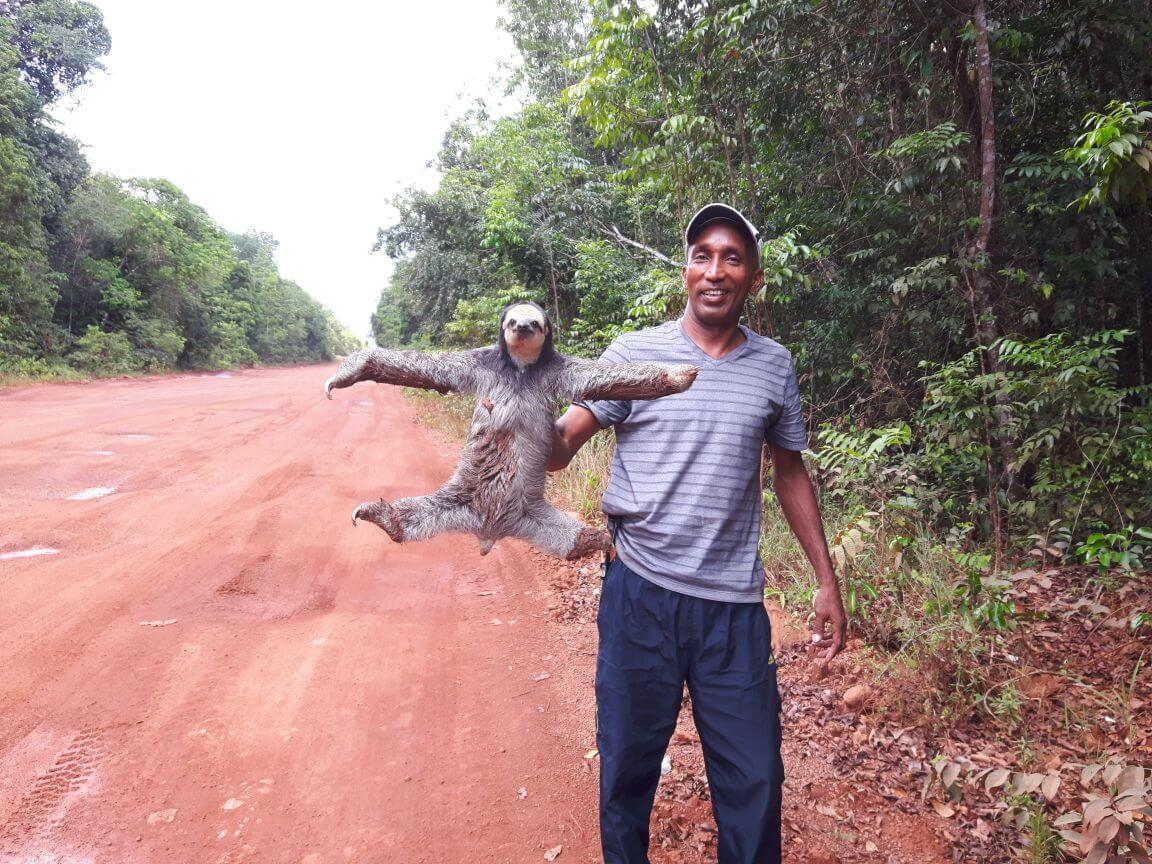
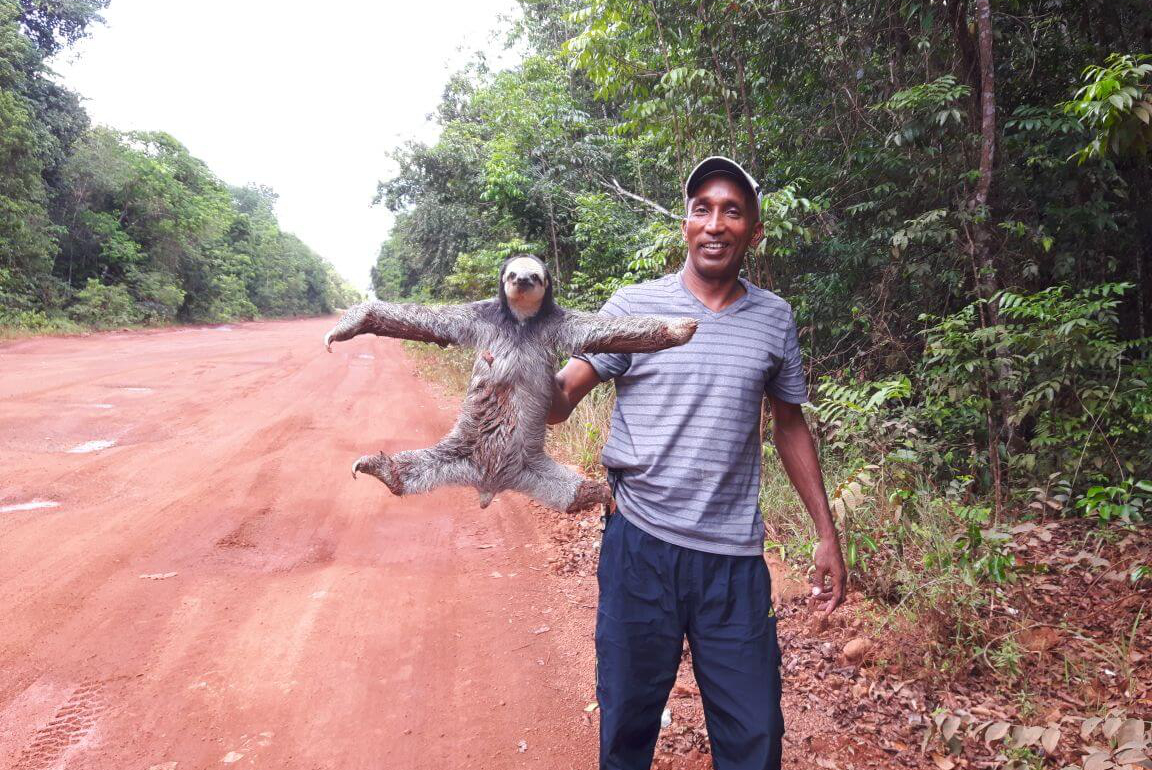
Updated image sizes

diff --git a/src/publications/photoessays/guyana/index.html b/src/publications/photoessays/guyana/index.html
@@ -291,7 +291,7 @@
                 vehicles that can negotiate the rough road during the inland rainy season, running from April to
                 September. The Bedfords are used for a variety of purposes. They provide Amerindian
                 communities with a vital link to Georgetown and Brazil. They are also used by substantial
-                mining operations that have created moonscapes made visible during aircraft flyovers. Our five-hour trip by Bedford truck from Iwokrama to the Rupununi region gave us amble opportunity for
+                mining operations that have created moonscapes made visible during aircraft flyovers. Our five-hour trip by Bedford truck from Iwokrama to the Rupununi region gave us ample opportunity for
                 wildlife spotting.
             </p>
         </section>
@@ -311,6 +311,8 @@
         <section id="7" class="scene photo-scene" data-scene-id="place7">
             <div class="figure " style="background-image:url(img/fig8.jpg);"></div>
             <p>
+				<span style="font-size:smaller; font-style: italic;">Photo by Jane Allen.</span>
+				<br/><br/>
                 The 1,430-square-mile <a href="#" class="location" data-layer-id="figure8">Iwokrama Forest</a> is located in the Guiana shield and can be accessed via
                 the Linden-Lethem road. Along with the Amazon, Congo and New Guinea ecosystems,
                 Iwokrama represents one of the last pristine tropical forests in the world. Located in an ecotone
@@ -332,6 +334,8 @@
         <section id="9" class="scene photo-scene" data-scene-id="place9">
             <div class="figure " style="background-image:url(img/fig10.jpg);"></div>
             <p>
+				<span style="font-size:smaller; font-style: italic;">Photo by Casey Miller.</span>
+				<br/><br/>
                 While the human settlement of Georgetown is well documented, the nation’s vast expanses of
                 wilderness, biodiversity, and its commitment to scientific conservation are underappreciated.
                 This may be due to the fact that few travelers visit Guyana at all in contrast to other ecotourism
@@ -423,6 +427,8 @@
         <section id="16" class="scene photo-scene" data-scene-id="place16">
              <div class="figure " style="background-image:url(img/fig18.jpg);"></div>
             <p>
+				<span style="font-size:smaller; font-style: italic;">Photo by Jane Allen.</span>
+				<br/><br/>
                 The annual Surama fútbol tournament draws hundreds of young Amerindian people together in
                 <a href="#" class="location" data-layer-id="figure16">Surama village</a>, a community of 287 people residing in the North Rupununi. The tournament is
                 the premiere athletic event in this sparsely populated region. As the photo illustrates, the
@@ -430,7 +436,7 @@
                 mountain range, collectively referred to as “South America’s Serengeti.” This fútbol
                 competition differs from others across Guyana which are larger in scale, the teams of which
                 primarily include players of Indo-Guyanese and Afro-Guyana descent. The Rupununi teams
-                pride themselves on their unique regional identity and longstanding Amerindian diversity.
+                pride themselves on their unique regional identity and longstanding Amerindian diversity.  
             </p>
         </section>
         <section id="17" class="scene photo-scene" data-scene-id="place17">
